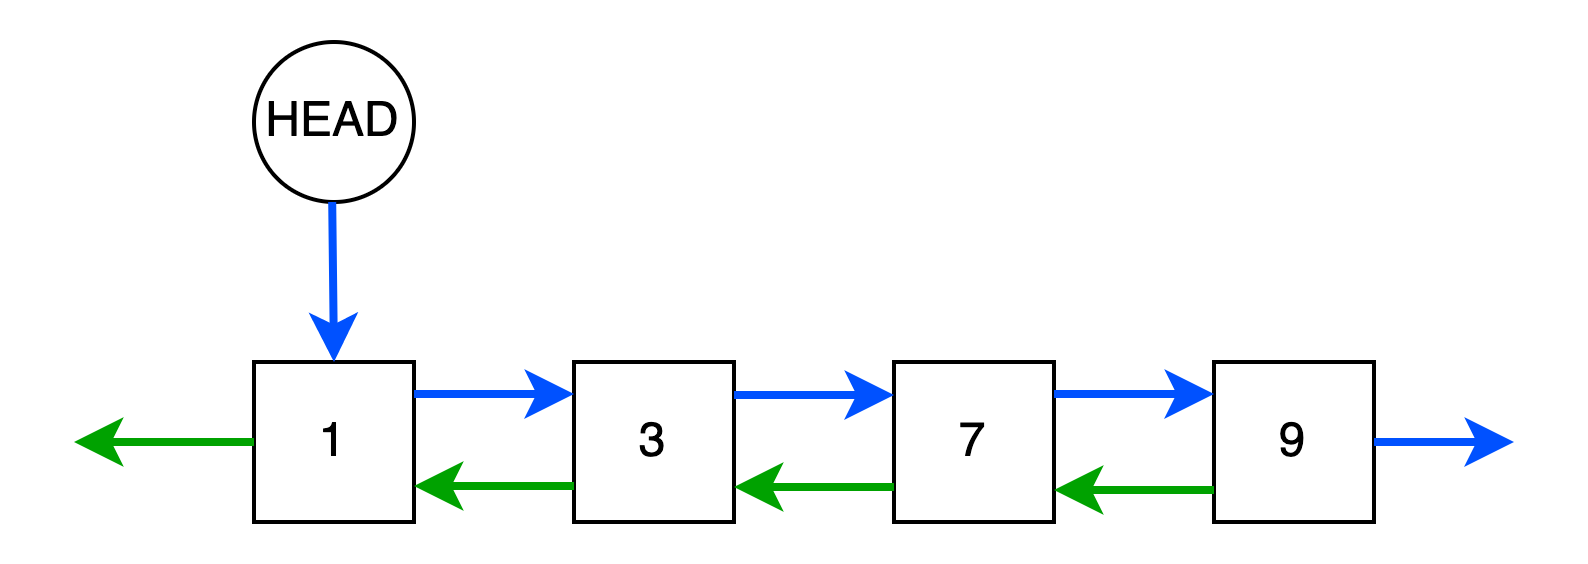
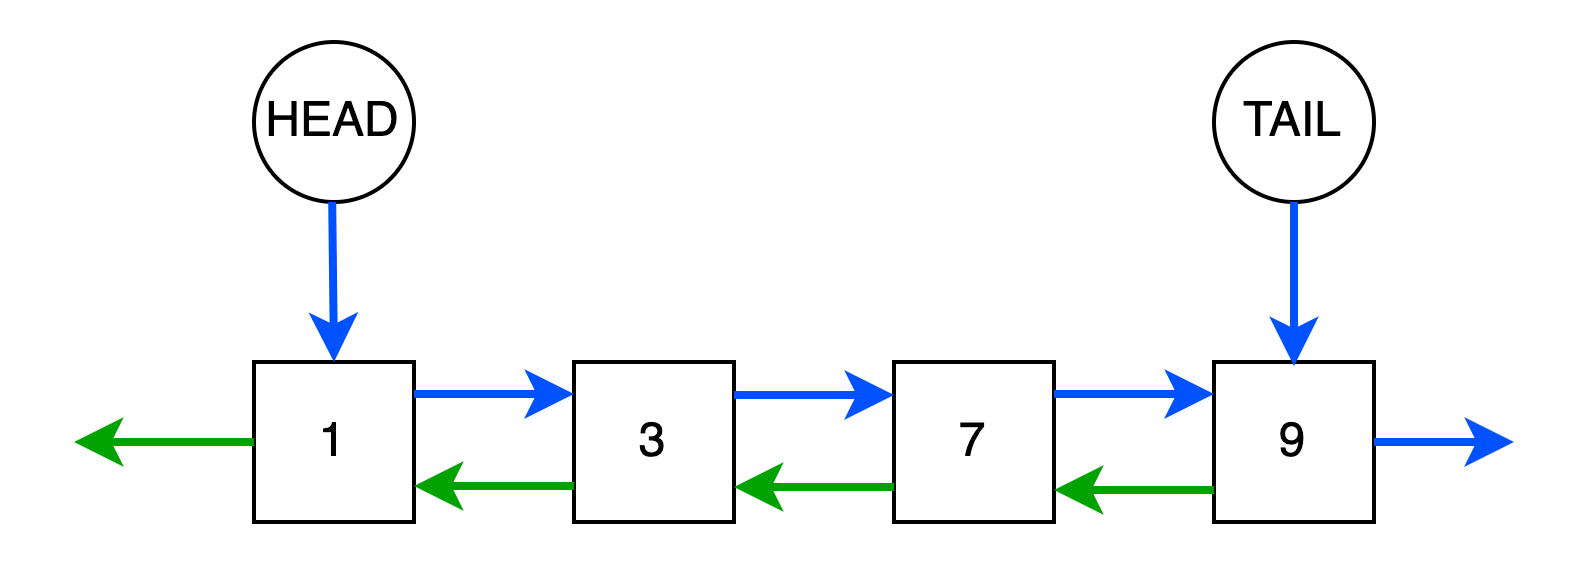
Реализация двусвязного списка (#5)

diff --git a/tutorial/doubly_linked_list.md b/tutorial/doubly_linked_list.md
@@ -5,26 +5,23 @@
 
 ![img.png](../img/doubly_linked_list.png)
 
-На рисунке выше синяя стрелка отображает связь на следующий элемент, а зеленая - на предыдущий. ``HEAD`` -
-указатель, хранящий ссылку на головной узел. Заметим, что доступ к хвосту списка осуществляется за счет ``HEAD`` и связи
-на предыдущий элемент ``prev``.
+На рисунке выше синяя стрелка отображает связь на следующий элемент, а зеленая - на предыдущий. Как и в односвязном
+списке, у структуры определены два указателя ``HEAD`` и ``TAIL`` на корневой ``head`` и конечный ``tail`` узлы
+соответственно.
 
 Каждый узел в двусвязном списке содержит не только значение, но и ссылку на следующий и предыдущий элемент. Программно
 его можно представить так:
 
 ```
+@dataclass
 class DoublyListNode:
     """
     Узел двусвязного списка
     """
-    def __init__(self, value, next_node, prev_node):
-        self.value = value
-        self.prev_node = prev_node
-        self.next_node = next_node
+    val: int
+    prev: Optional['DoublyListNode'] = None
+    next: Optional['DoublyListNode'] = None
 ```
-
-Как и односвязный список, двусвязный также имеет два указателя ``HEAD`` и ``TAIL`` на корневой ``head`` и
-конечный ``tail`` узлы соответственно.
 
 ## Линейный поиск и доступ к элементу по индексу по двусвязному списку
 
@@ -38,44 +35,209 @@ class DoublyListNode:
 
 Рассмотрим три вида вставки: вставка элемента в середину, в "голову" и в "хвост".
 
+**Вставка в начало** изображена ниже. Алгоритм вставки следующий:
+
+1. Создаем узел ``cur`` и устанавливаем ``next`` у него на ``head``
+2. Если ``head`` уже существует и список не пустой, то у ``head`` устанавливаем ``prev`` на ``cur``
+3. Если ``tail`` не инициализирован (т.е. добавляемый ``cur`` первый в списке), то устанавливаем ``tail`` как ``cur``
+4. Переназначаем ``head`` на ``cur``
+
 ![img.png](../img/doubly_linked_list_1.png)
 
-Вставку элемента в середину можно разделить на два шага:
+**Вставку элемента в середину** можно разделить на два шага:
 
 1. Связывания вставляемого элемента ``cur`` с узлами ``prev`` и ``next``
-2. Удаление старых связей ``prev``->``next`` и дальнейшее их переназначение на ``cur``
+2. Удаление старых связей для ``prev`` и ``next`` и дальнейшее их переназначение на ``cur``
 
-Операция займет **O(n)** вне зависимости от того какой узел следующий или предыдущий задается. В отличие от односвязного
-списка мы располагаем двумя связями.
+![img.png](../img/doubly_linked_list_2.png)
 
-Вставка в голову и хвост аналогична тому, как это осуществляется в односвязном списке. Всегда ее сложность оценивается в
-**O(1)**.
+Операция займет **O(1)** вне зависимости от того какой узел следующий или предыдущий задается. В отличие от односвязного
+списка мы располагаем двумя связями. Следует заметить, что если происходит вставка по индексу, то изначально следует
+получить ссылку на правый или левый узел, а это займет **O(n)**.
+
+**Вставка в хвост** аналогична вставке в начало. Ее сложность оценивается в **O(1)**.
 
 Временная сложность операций:
 
-Вставка элемента в середину - **O(1)**.
+Вставка элемента в середину - **O(1)**. При условии, что задается узел для вставки, а не его индекс. Для вставки по
+индексу **O(n)**.
 
-Вставка элемента в "голову" - **O(1)**
+Вставка элемента в "голову" - **O(1)**.
 
 Вставка элемента в "хвост" - **O(1)**.
 
 ## Операция удаления элемента
 
-Рассмотрим удаление из середины.
+Алгоритм **удаления из головы** следующий:
 
-![img.png](../img/doubly_linked_list_2.png)
+1. Берем голову ``head`` и инициализируем ``cur`` значением связи ``next``.
+2. Если ``cur`` существует, удаляем у него значение связи ``prev``.
+3. Если ``cur`` не существует, в списке один элемент и мы его удаляем. Поэтому обнуляем ``tail``.
+4. Устанавливаем ``head`` как ``cur``
+
+Рассмотрим **удаление из середины**.
+
+![img.png](../img/doubly_linked_list_3.png)
 
 В отличие от односвязного списка, где эта операция занимает **O(n)** из-за того, что нам требуется найти предыдущий
 элемент для создания связи, двусвязный список имеет ссылку на ``prev``. Если мы хотим удалить существующий узел ``cur``,
 мы можем просто связать его предыдущий узел ``prev`` со следующим узлом ``next``. Временная сложность **O(1)**.
 
-Удаление из начала и конца списка является частным случаем удаление из середины, поэтому имеет временную сложность **O(
-1)**.
+Удаление из конца списка аналогично удалению из головы, поэтому имеет временную сложность **O(1)**.
 
 Временная сложность операций:
 
-Удаление элемента из "головы" - **O(1)**
+Удаление элемента из "головы" - **O(1)**.
 
-Удаление элемента из середины - **O(1)**
+Удаление элемента из середины - **O(1)**. При условии, что задается узел для вставки, а не его индекс. Для удаления по
+индексу **O(n)**.
 
-Удаление элемента из "хвоста" - **O(1)**
+Удаление элемента из "хвоста" - **O(1)**.
+
+## Реализация двусвязного списка на языке python
+
+```
+"""
+DoublyLinkedList
+"""
+from dataclasses import dataclass
+from typing import Optional
+
+
+@dataclass
+class DoublyListNode:
+    """
+    Узел двусвязного списка
+    """
+    val: int
+    prev: Optional['DoublyListNode'] = None
+    next: Optional['DoublyListNode'] = None
+
+
+class DoublyLinkedList:
+    """
+    Реализация двусвязного списка
+    """
+
+    def __init__(self):
+        self.head = None
+        self.tail = None
+        self.len = 0
+
+    def get(self, index: int) -> Optional[DoublyListNode]:
+        """ Получение узла по индексу """
+        cur = self.head
+        idx = 0
+        while idx != index:
+            if not cur:
+                return None
+
+            cur = cur.next
+            idx += 1
+
+        return cur
+
+    def add_at_head(self, val: int) -> DoublyListNode:
+        """ Добавление в голову """
+        cur = DoublyListNode(val)
+        cur.next = self.head
+        if self.head:
+            self.head.prev = cur
+        if not self.tail:
+            self.tail = cur
+
+        self.head = cur
+        self.len += 1
+
+        return cur
+
+    def add_at_tail(self, val: int) -> DoublyListNode:
+        """ Добавление в хвост """
+        cur = DoublyListNode(val)
+        cur.prev = self.tail
+        if self.tail:
+            self.tail.next = cur
+        if not self.head:
+            self.head = cur
+
+        self.tail = cur
+        self.len += 1
+
+        return cur
+
+    def add_at_index(self, index: int, val: int) -> Optional[DoublyListNode]:
+        """ Добавление по индексу """
+        if index > self.len:
+            return None
+
+        right = self.get(index)
+        if not right:
+            return self.add_at_tail(val)
+
+        left = right.prev
+        if not left:
+            return self.add_at_head(val)
+
+        cur = DoublyListNode(val)
+        cur.prev = left
+        cur.next = right
+        left.next = cur
+        right.prev = cur
+        self.len += 1
+        return cur
+
+    def delete_at_index(self, index: int) -> None:
+        """ Удаление по индексу """
+        curr = self.get(index)
+        if not curr:
+            return None
+
+        left = curr.prev
+        right = curr.next
+
+        if not left:
+            return self.delete_at_head()
+
+        if not right:
+            return self.delete_at_tail()
+
+        right.prev = left
+        left.next = right
+        self.len -= 1
+
+        return None
+
+    def delete_at_head(self) -> None:
+        """ Удаление из головы """
+        if not self.head:
+            return None
+
+        cur = self.head.next
+        if cur:
+            cur.prev = None
+        else:
+            # Если в списке один элемент и мы его удаляем
+            self.tail = None
+
+        self.head = cur
+        self.len -= 1
+
+        return None
+
+    def delete_at_tail(self) -> None:
+        """ Удаление с хвоста """
+        if not self.tail:
+            return None
+
+        cur = self.tail.prev
+        if cur:
+            cur.next = None
+        else:
+            # Если в списке один элемент и мы его удаляем
+            self.head = None
+
+        self.tail = cur
+        self.len -= 1
+
+        return None
+```
